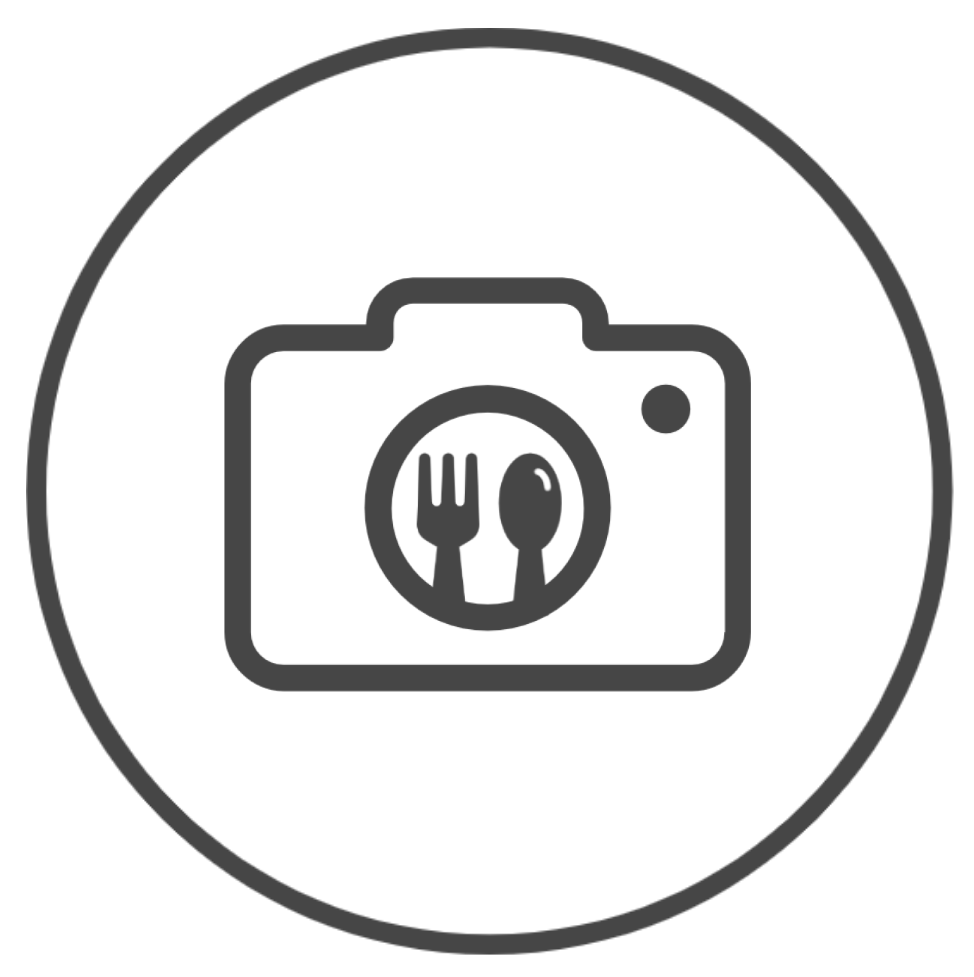
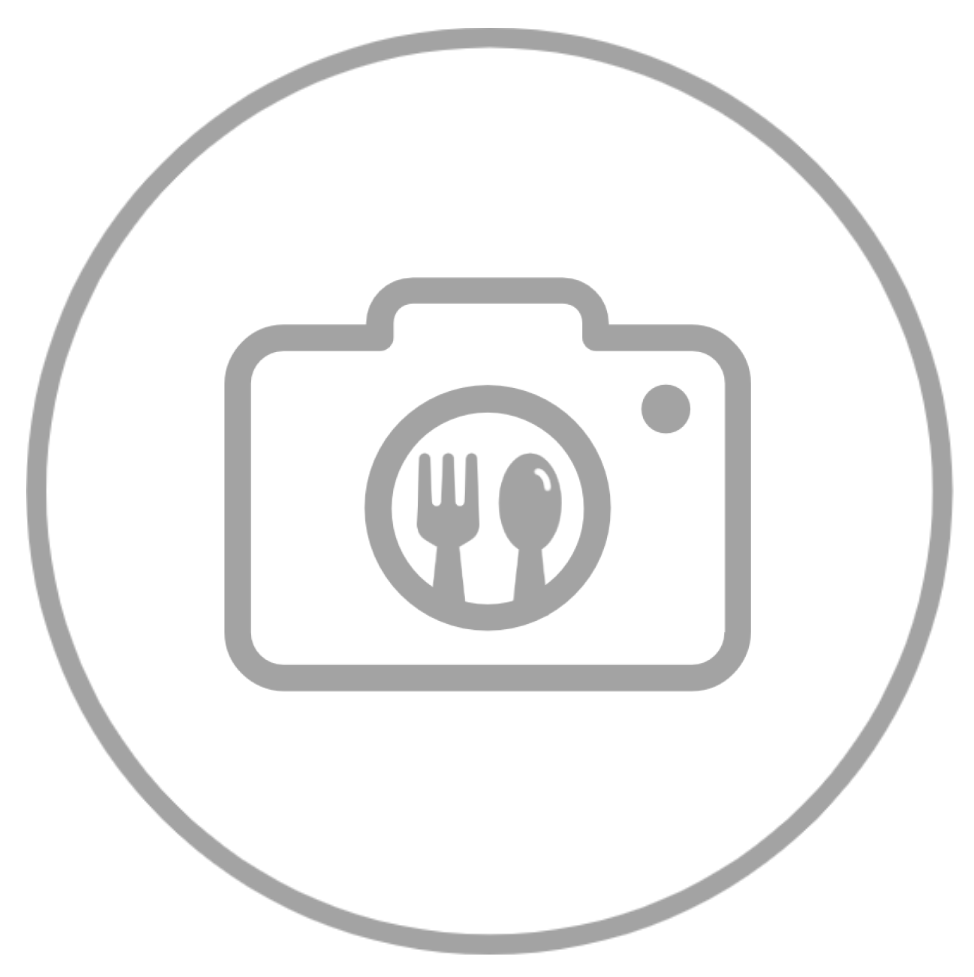
commit

Changed region(s): [[0.0, 0.0307, 0.9856, 0.9826], [0.2156, 0.2764, 0.77, 0.7062], [0.3696, 0.3685, 0.6468, 0.6448]]

diff --git a/client-mobile/screens/OtherUserProfile.js b/client-mobile/screens/OtherUserProfile.js
@@ -45,7 +45,6 @@ export default function OtherUserProfile() {
     return null;
   }
 
-  console.log(userPosts);
   return (
     <SafeAreaView style={styles.container}>
       <View>
@@ -104,7 +103,7 @@ export default function OtherUserProfile() {
               userPosts.items.length > 0 ? <UserPost post={userPosts} /> :
                 <Box justifyContent={'center'} width={windowWidth} mt={12}>
                   <Image alignSelf={'center'} mb={3} resizeMode={'contain'} width={'150'} height={'150'} source={require('../assets/camera.png')} alt={'alternate'} />
-                  <Text style={{fontSize:24, fontWeight: 'bold', alignSelf:'center', color:'#373737'}}>No post yet</Text>
+                  <Text style={{fontSize:24, fontWeight: 'bold', alignSelf:'center', color:'#A2A2A2'}}>No post yet</Text>
                 </Box>
             }
           </ScrollView>

diff --git a/client-mobile/screens/Profile.js b/client-mobile/screens/Profile.js
@@ -98,7 +98,6 @@ export default function Profile() {
     return refresh;
   }, [navigation, userIdLocal])
 
-  console.log(userPosts);
 
   if (!userProfile) {
     return null;
@@ -178,7 +177,7 @@ export default function Profile() {
               userPosts.items.length > 0 ? <UserPost post={userPosts} /> :
                 <Box justifyContent={'center'} width={windowWidth} mt={12}>
                   <Image alignSelf={'center'} mb={3} resizeMode={'contain'} width={'150'} height={'150'} source={require('../assets/camera.png')} alt={'alternate'} />
-                  <Text style={{ fontSize: 24, fontWeight: 'bold', alignSelf: 'center', color: '#373737' }}>No post yet</Text>
+                  <Text style={{ fontSize: 24, fontWeight: 'bold', alignSelf: 'center', color: '#A2A2A2' }}>No post yet</Text>
                 </Box>
             }
           </ScrollView>
